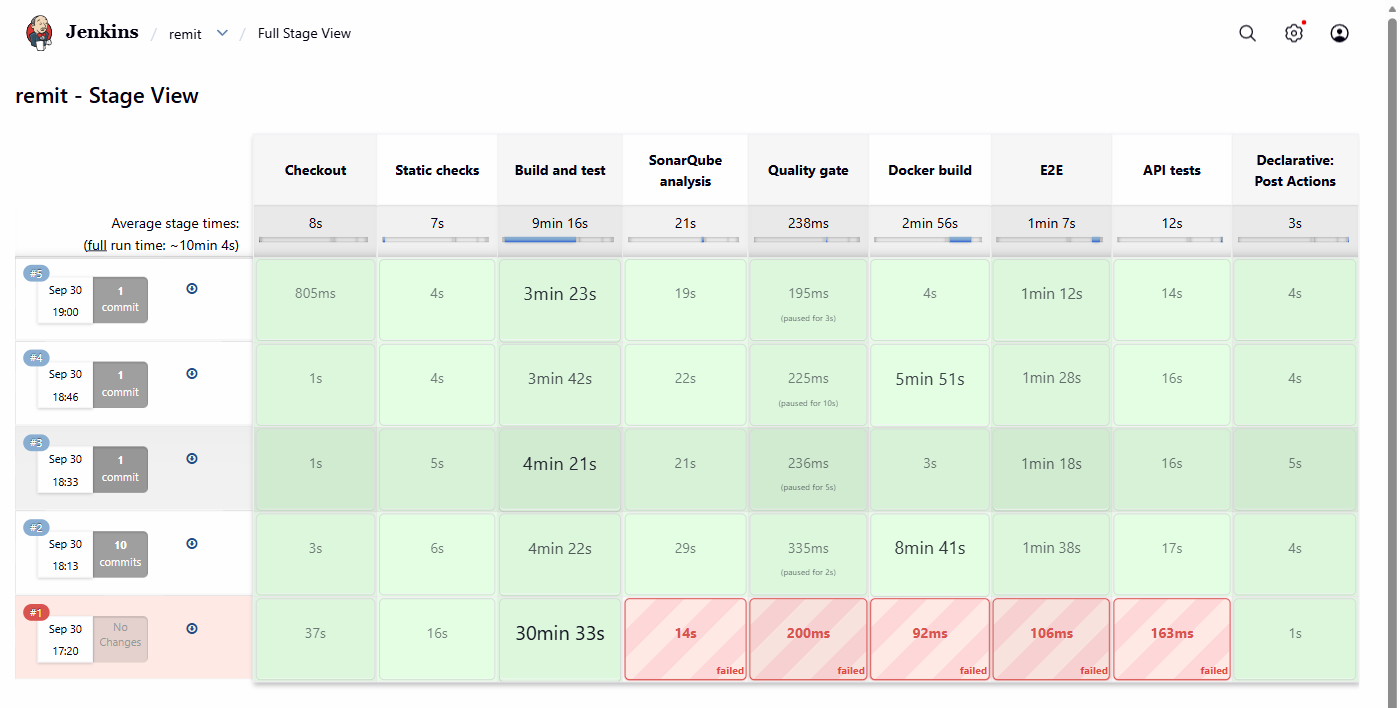
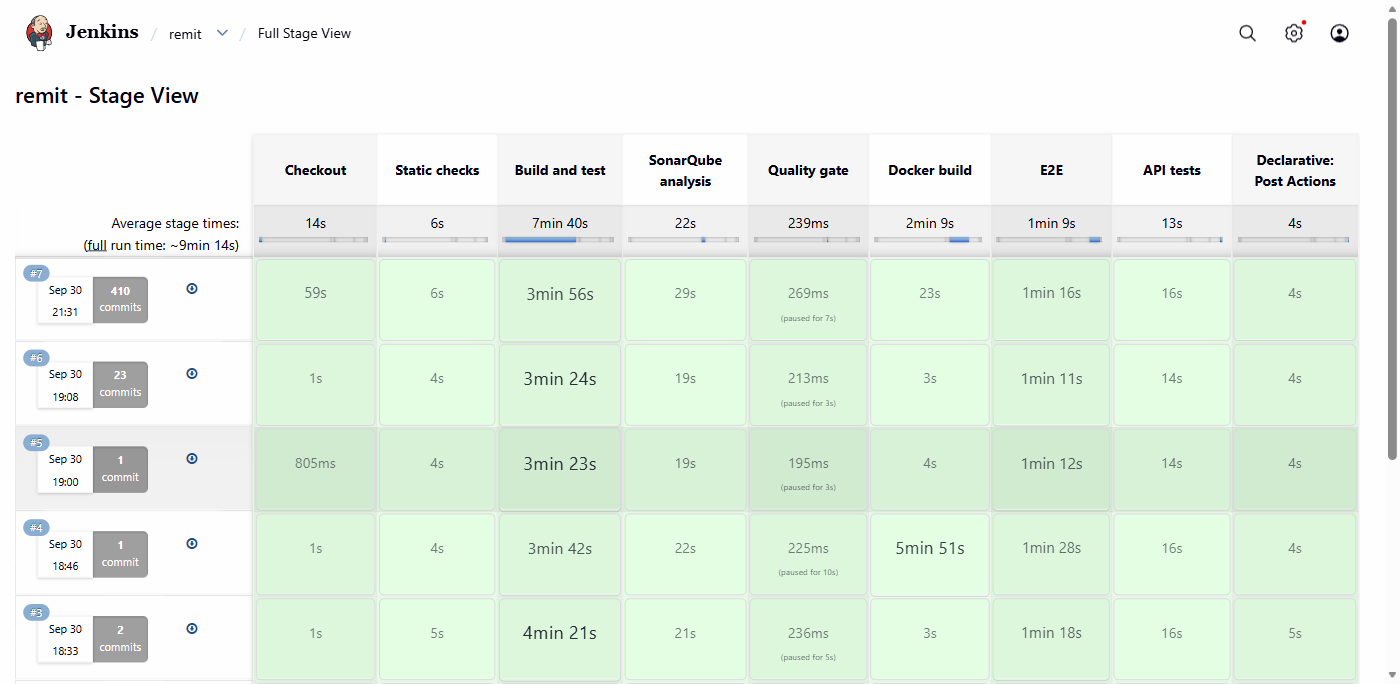
docs(ci): refresh pipeline and quality gate screenshots

diff --git a/README.md b/README.md
@@ -406,20 +406,20 @@ ci/setup.sh    # SonarQube (admin password, quality gate, webhook, token), then 
 docker compose -f ci/docker-compose.jenkins.yml down      # stop; add -v to delete Jenkins, SonarQube and cache volumes
 ```
 
-The [Jenkinsfile](Jenkinsfile) stages, with their durations in the green run shown below (build #5, warm Maven and image caches):
+The [Jenkinsfile](Jenkinsfile) stages, with their durations in the green run shown below (build #7, warm Maven and image caches):
 
 | # | Stage | What it runs | Time |
 |---|---|---|---|
-| 1 | Checkout | `checkout scm` of `main` | 1 s |
-| 2 | Static checks | `./mvnw -B spotless:check`, `shellcheck scripts/*.sh ci/*.sh` | 4 s |
-| 3 | Build and test | `./mvnw -B verify`: 631 unit and Testcontainers integration tests, Spotless, JaCoCo gate; publishes JUnit and JaCoCo | 3 min 23 s |
-| 4 | SonarQube analysis | `withSonarQubeEnv('sonarqube') { ./mvnw -B sonar:sonar }` | 20 s |
-| 5 | Quality gate | `waitForQualityGate abortPipeline: true` within 5 minutes | 4 s |
-| 6 | Docker build | `scripts/build.sh --skip-tests`: three images, all layers cached because no Java or pom changed (8 min 41 s on an empty cache) | 4 s |
-| 7 | E2E | `.env` from credentials, `scripts/deploy.sh compose`, `scripts/smoke-test.sh --no-up` (70 checks) | 1 min 12 s |
-| 8 | API tests | `scripts/newman.sh -e docker --base-url http://dind:8080/api/v1`: 98 requests, 687 assertions; JUnit and htmlextra reports | 14 s |
+| 1 | Checkout | `checkout scm` of `main` (fetched every commit again because the history was rewritten; about 1 s otherwise) | 59 s |
+| 2 | Static checks | `./mvnw -B spotless:check`, `shellcheck scripts/*.sh ci/*.sh` | 6 s |
+| 3 | Build and test | `./mvnw -B verify`: 631 unit and Testcontainers integration tests, Spotless, JaCoCo gate; publishes JUnit and JaCoCo | 3 min 56 s |
+| 4 | SonarQube analysis | `withSonarQubeEnv('sonarqube') { ./mvnw -B sonar:sonar }` | 29 s |
+| 5 | Quality gate | `waitForQualityGate abortPipeline: true` within 5 minutes | 7 s |
+| 6 | Docker build | `scripts/build.sh --skip-tests`: three images; intake and routing fully cached, api-service repackaged on cached Maven dependencies (8 min 41 s on an empty cache) | 23 s |
+| 7 | E2E | `.env` from credentials, `scripts/deploy.sh compose`, `scripts/smoke-test.sh --no-up` (70 checks) | 1 min 16 s |
+| 8 | API tests | `scripts/newman.sh -e docker --base-url http://dind:8080/api/v1`: 98 requests, 687 assertions; JUnit and htmlextra reports | 16 s |
 | | post | compose logs, `docker compose down -v`, archive reports | 4 s |
-| | total | | 5 min 29 s |
+| | total | | 9 min 38 s |
 
 Details:
 
